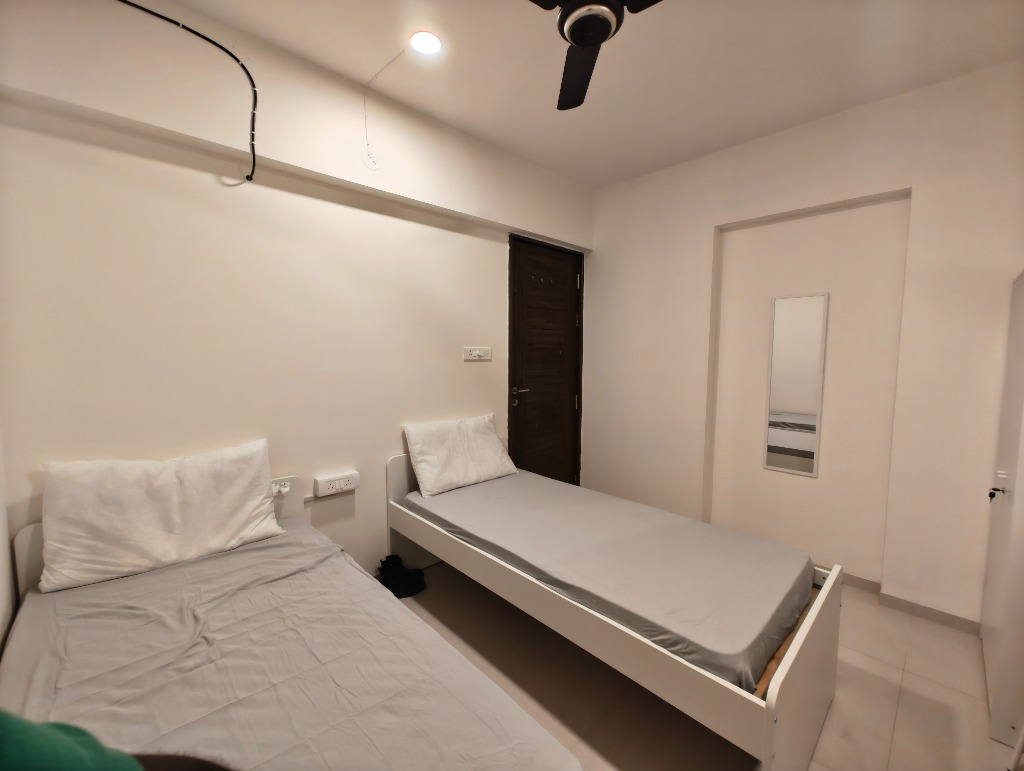
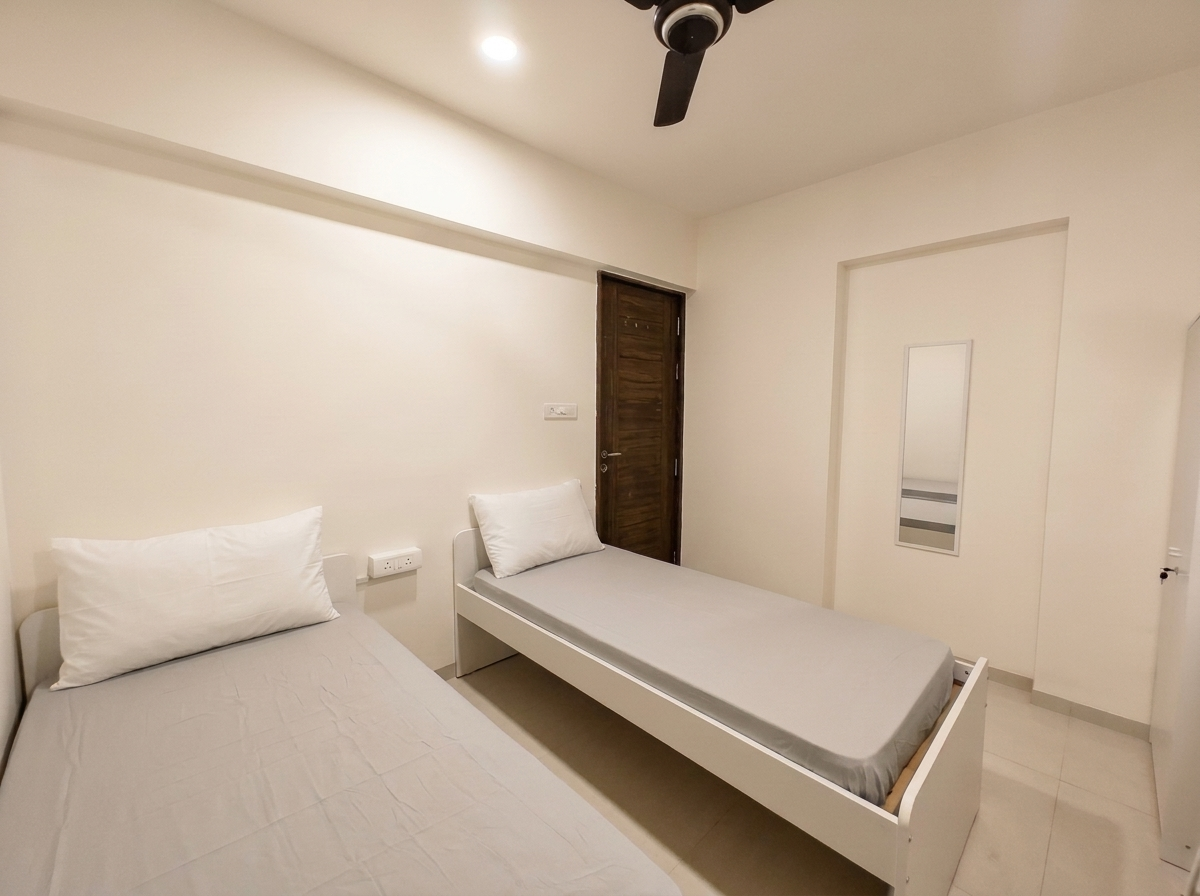
photo retouch and color specific phrases removed

diff --git a/src/components/ArcGalleryCarousel.tsx b/src/components/ArcGalleryCarousel.tsx
@@ -23,11 +23,11 @@ export const GALLERY_ITEMS: GalleryItem[] = [
   {
     id: 'girls-room',
     category: 'GIRLS’ ACCOMMODATION',
-    title: 'Navy Blue Bedding Bedroom',
+    title: 'Twin-Sharing Girls’ Bedroom',
     image: 'assets/girls-room.jpeg',
     description:
-      'Spacious, naturally lit bedroom featuring signature navy blue bedding, dedicated wardrobe storage, whisper-quiet air conditioning, and ergonomic study workspace.',
-    features: ['Navy Blue Linens', 'AC Equipped', 'Personal Wardrobe', 'Study Desk', 'Daily Housekeeping'],
+      'Spacious, naturally lit bedroom featuring plush comfort bedding, dedicated wardrobe storage, whisper-quiet air conditioning, and ergonomic study workspace.',
+    features: ['Fresh Premium Linens', 'AC Equipped', 'Personal Wardrobe', 'Study Desk', 'Daily Housekeeping'],
     ctaLabel: 'Check Girls’ Room Availability',
   },
   {
@@ -53,11 +53,11 @@ export const GALLERY_ITEMS: GalleryItem[] = [
   {
     id: 'boys-room',
     category: 'BOYS’ ACCOMMODATION',
-    title: 'Grey Bedding Executive Room',
+    title: 'Twin-Sharing Executive Room',
     image: 'assets/boys-room.jpeg',
     description:
-      'Contemporary bedroom designed with modern grey bedding, illuminated vanity mirror, study corner, ample storage, and high-speed fiber internet.',
-    features: ['Grey Palette Bedding', 'Illuminated Mirror', 'Executive Study Desk', 'Split AC', 'Regular Linens'],
+      'Contemporary bedroom designed with plush comfort bedding, illuminated vanity mirror, study corner, ample storage, and high-speed fiber internet.',
+    features: ['Fresh Premium Bedding', 'Illuminated Mirror', 'Executive Study Desk', 'Split AC', 'Regular Linens'],
     ctaLabel: 'Check Boys’ Room Availability',
   },
   {

diff --git a/src/views/SinglePageView.tsx b/src/views/SinglePageView.tsx
@@ -133,7 +133,7 @@ export const SinglePageView: React.FC<SinglePageAppProps> = ({ onOpenLightbox })
     },
     {
       q: 'Are there separate, dedicated accommodations for girls and boys?',
-      a: 'Yes. We provide dedicated, separate properties and wings for Girls’ Accommodation (Navy blue bedding rooms) and Boys’ Accommodation (Grey bedding rooms), plus unisex co-living options with complete privacy, biometric entry, and round-the-clock CCTV.',
+      a: 'Yes. We provide dedicated, separate properties and wings for Girls’ Accommodation and Boys’ Accommodation featuring thoughtfully furnished twin-sharing rooms with fresh, comfortable bedding, complete privacy, biometric entry, and round-the-clock CCTV.',
     },
     {
       q: 'How does food, dining, and the communal kitchen work?',

diff --git a/index.html b/index.html
@@ -264,7 +264,7 @@
           "name": "Are there separate, dedicated accommodations for girls and boys?",
           "acceptedAnswer": {
             "@type": "Answer",
-            "text": "Yes. We provide dedicated, separate properties and wings for Girls’ Accommodation (Navy blue bedding rooms) and Boys’ Accommodation (Grey bedding rooms), plus unisex co-living options with complete privacy, biometric entry, and round-the-clock CCTV."
+            "text": "Yes. We provide dedicated, separate properties and wings for Girls’ Accommodation and Boys’ Accommodation featuring thoughtfully furnished twin-sharing rooms with fresh, comfortable bedding, complete privacy, biometric entry, and round-the-clock CCTV."
           }
         },
         {
